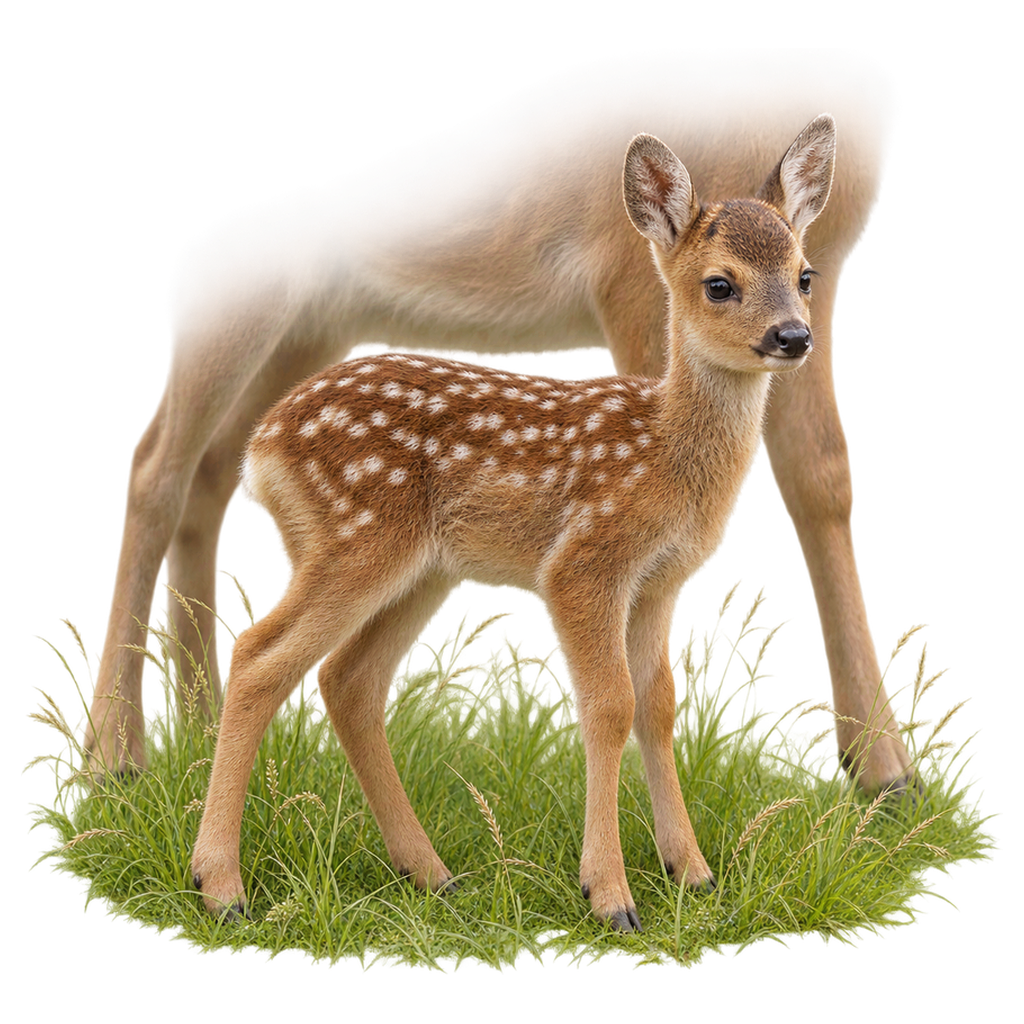
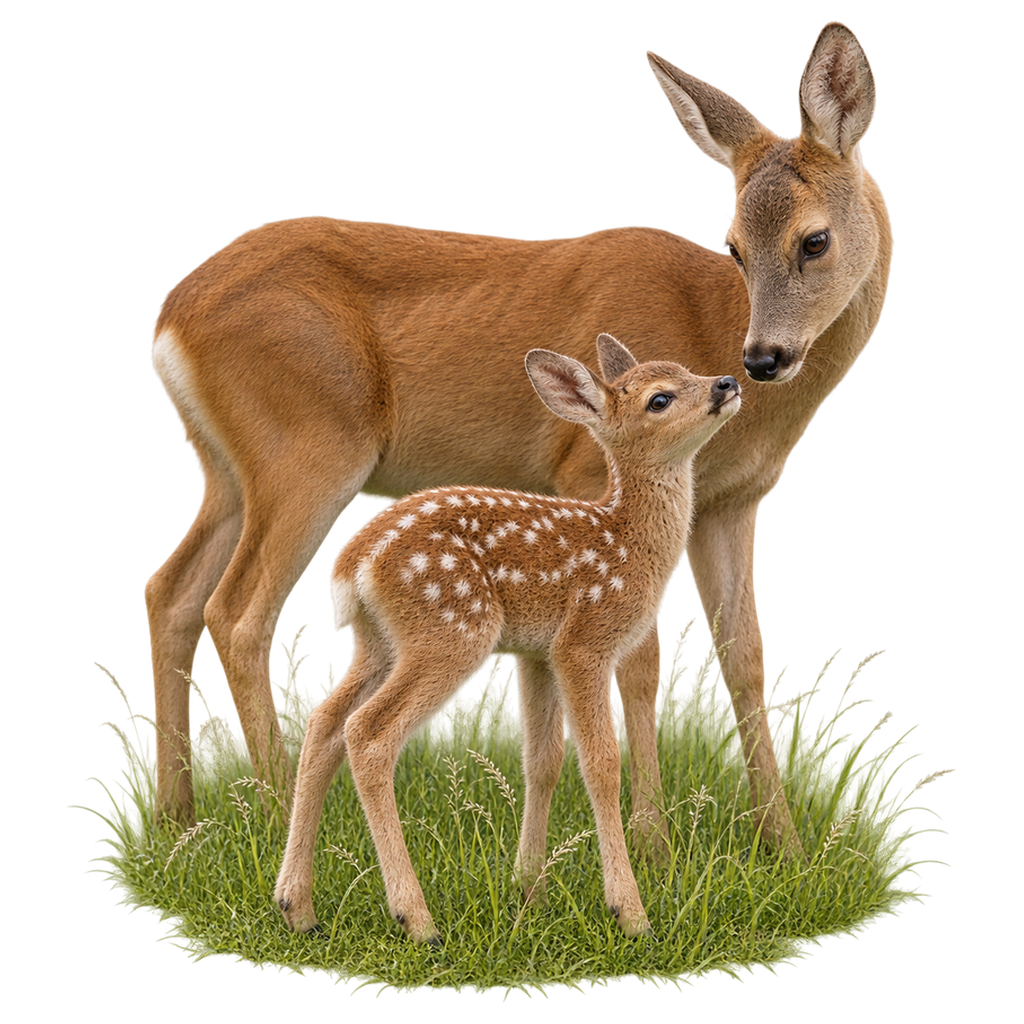
Replace the fawn: the doe now stands whole and solid behind it, with no fade
Art's fixes-1 run, checked on dark: no matte. The old batch-8 picture's doe faded out with no head.

diff --git a/docs/word-art-redo/2026-11-22-new/fixes-1/prompts.md b/docs/word-art-redo/2026-11-22-new/fixes-1/prompts.md
@@ -1,0 +1,28 @@
+# Fawn remake prompts
+
+Built-in image tool with transparent background enabled. Both attachments
+were used for style only.
+
+- 2026-11-21-style-pilot/kangaroo-studio.png
+- 2026-11-21-redo/batch-3/lamb.png
+
+## Delivered render and repeat attempt
+
+```text
+Scientific educational word picture for Mammal Discovery Club, ages 4–7. One isolated subject in a 1024 × 1024 square with real transparent alpha. Center the complete intended subject, roughly 85% of the square along its longest dimension, with clear margin and a silhouette legible at 120 px. True species anatomy, faithful natural colors, realistic fur and skin texture, no ink outlines, anthropomorphism, text, watermark, background or ground shadow.
+
+Lifelike studio photograph cutout of the real animal, natural fur sheen and microtexture, soft directional studio light, neutral colour balance, subtle optical depth of field on whiskers and fur tips.
+
+A spotted roe deer fawn with clear white spots standing in a small patch of long grass, in front of its mother. The mother roe deer is shown whole and solid, head, ears, neck, body and all four legs, standing just behind and a little above the fawn and looking down towards it; no fading, no cut-off parts. The fawn is the main subject, sharp and nearest the viewer, and the mother is slightly softer in focus but fully opaque. Both animals and the grass patch fit inside the frame with clear margin.
+
+Both attached images are style-only references.
+```
+
+## Follow-up attempt
+
+The follow-up appended this instruction to the same prompt and used the same
+attachments. It was discarded because the doe had an extra leg.
+
+```text
+Keep the doe offset just far enough behind the fawn for all four of her legs to be separately visible down to the hooves. Keep the grass patch low at the hooves, with true transparent gaps between legs and individual grass tips. Use clean natural-coloured edges with no coloured spill, matte or halo.
+```
